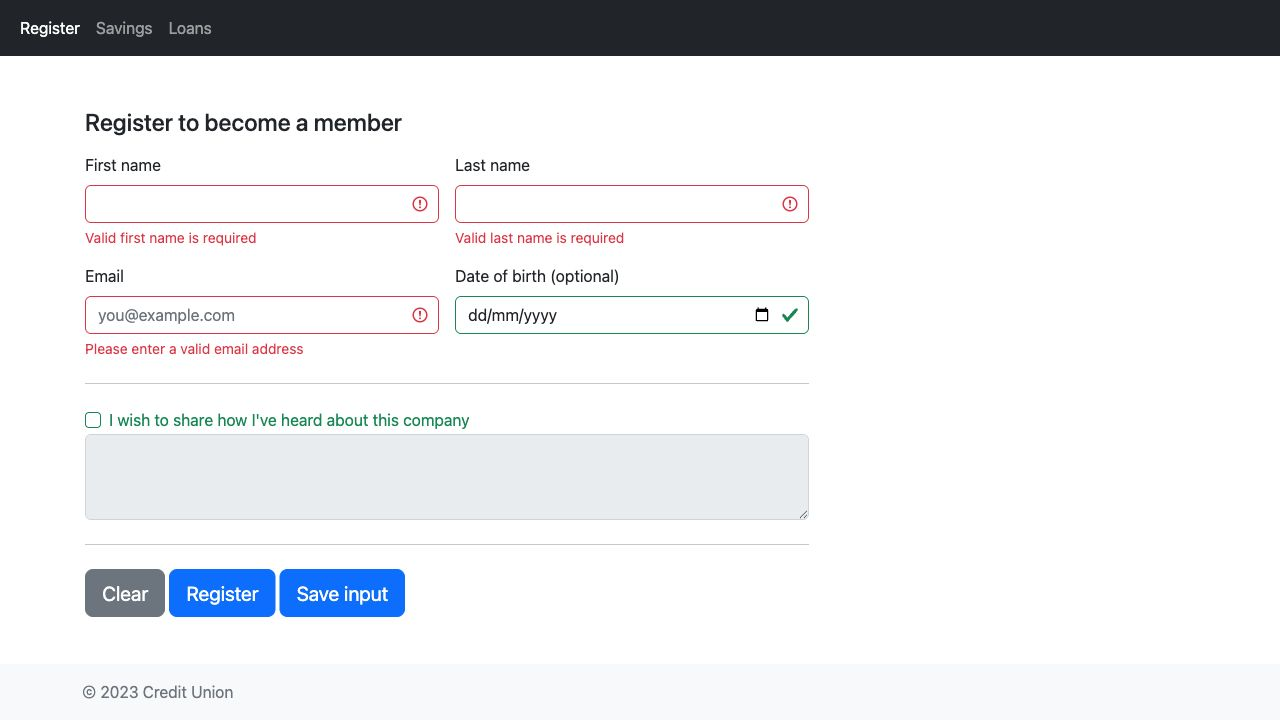
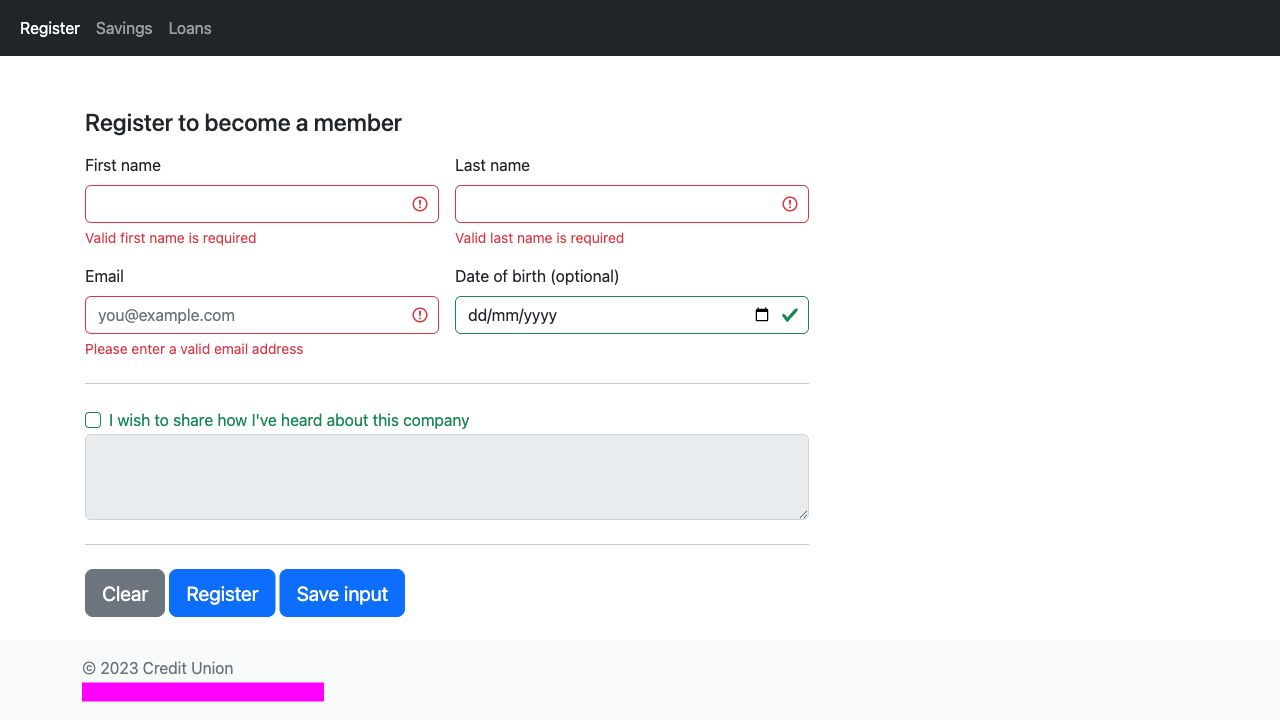
Screenshot Test Fixed

Changed region(s): [[0.0625, 0.9167, 0.2812, 0.9778]]

diff --git a/tests/advanced-actions/7-screenshot-new.test.ts b/tests/advanced-actions/7-screenshot-new.test.ts
@@ -1,0 +1,21 @@
+import { test, expect } from '@playwright/test';
+
+test('Screenshot demo with mask and fullPage', async ({ page }) => {
+  await page.goto('/');
+
+  // Optional: Trigger any interactions needed
+  await page.getByRole('button', { name: 'Register' }).click();
+
+  // Masking element (must await it before passing to options)
+  const maskedLocators = await page.getByTestId('location').all();
+
+  // Full page screenshot with mask
+  await page.screenshot({
+    path: 'screenshots/screenshot-masked.png',
+    fullPage: true,
+    mask: maskedLocators,
+  });
+
+  // Ensure screenshot is taken *after* everything is loaded/interacted
+  await expect(page.locator('.invalid-feedback')).toHaveCount(3);
+});

diff --git a/tests/advanced-actions/6-screenshot.test.ts b/tests/advanced-actions/6-screenshot.test.ts
@@ -1,5 +1,9 @@
 import { test, expect } from '@playwright/test';
 
+
+// test.use({
+//     viewport: { width: 1280, height: 2000 }
+//   }); 
 test('Screenshot demo', async ({ page }) => {
 
     page.goto('/');
@@ -7,7 +11,8 @@ test('Screenshot demo', async ({ page }) => {
     await page.getByRole('button', { name: 'Register' }).click();
 
     const s: Promise<Buffer> = page.screenshot({
-        path: 'screenshots/screenshot.png'
+        path: 'screenshots/screenshot.png',
+        fullPage: true,
     });
 
 

diff --git a/src/js/footer.js b/src/js/footer.js
@@ -3,6 +3,6 @@
 
   setTimeout(() => {
     document.getElementById('location').innerText = `You are visiting us from New York`;
-  }, "2000");
+  }, "0");
 
 })()
